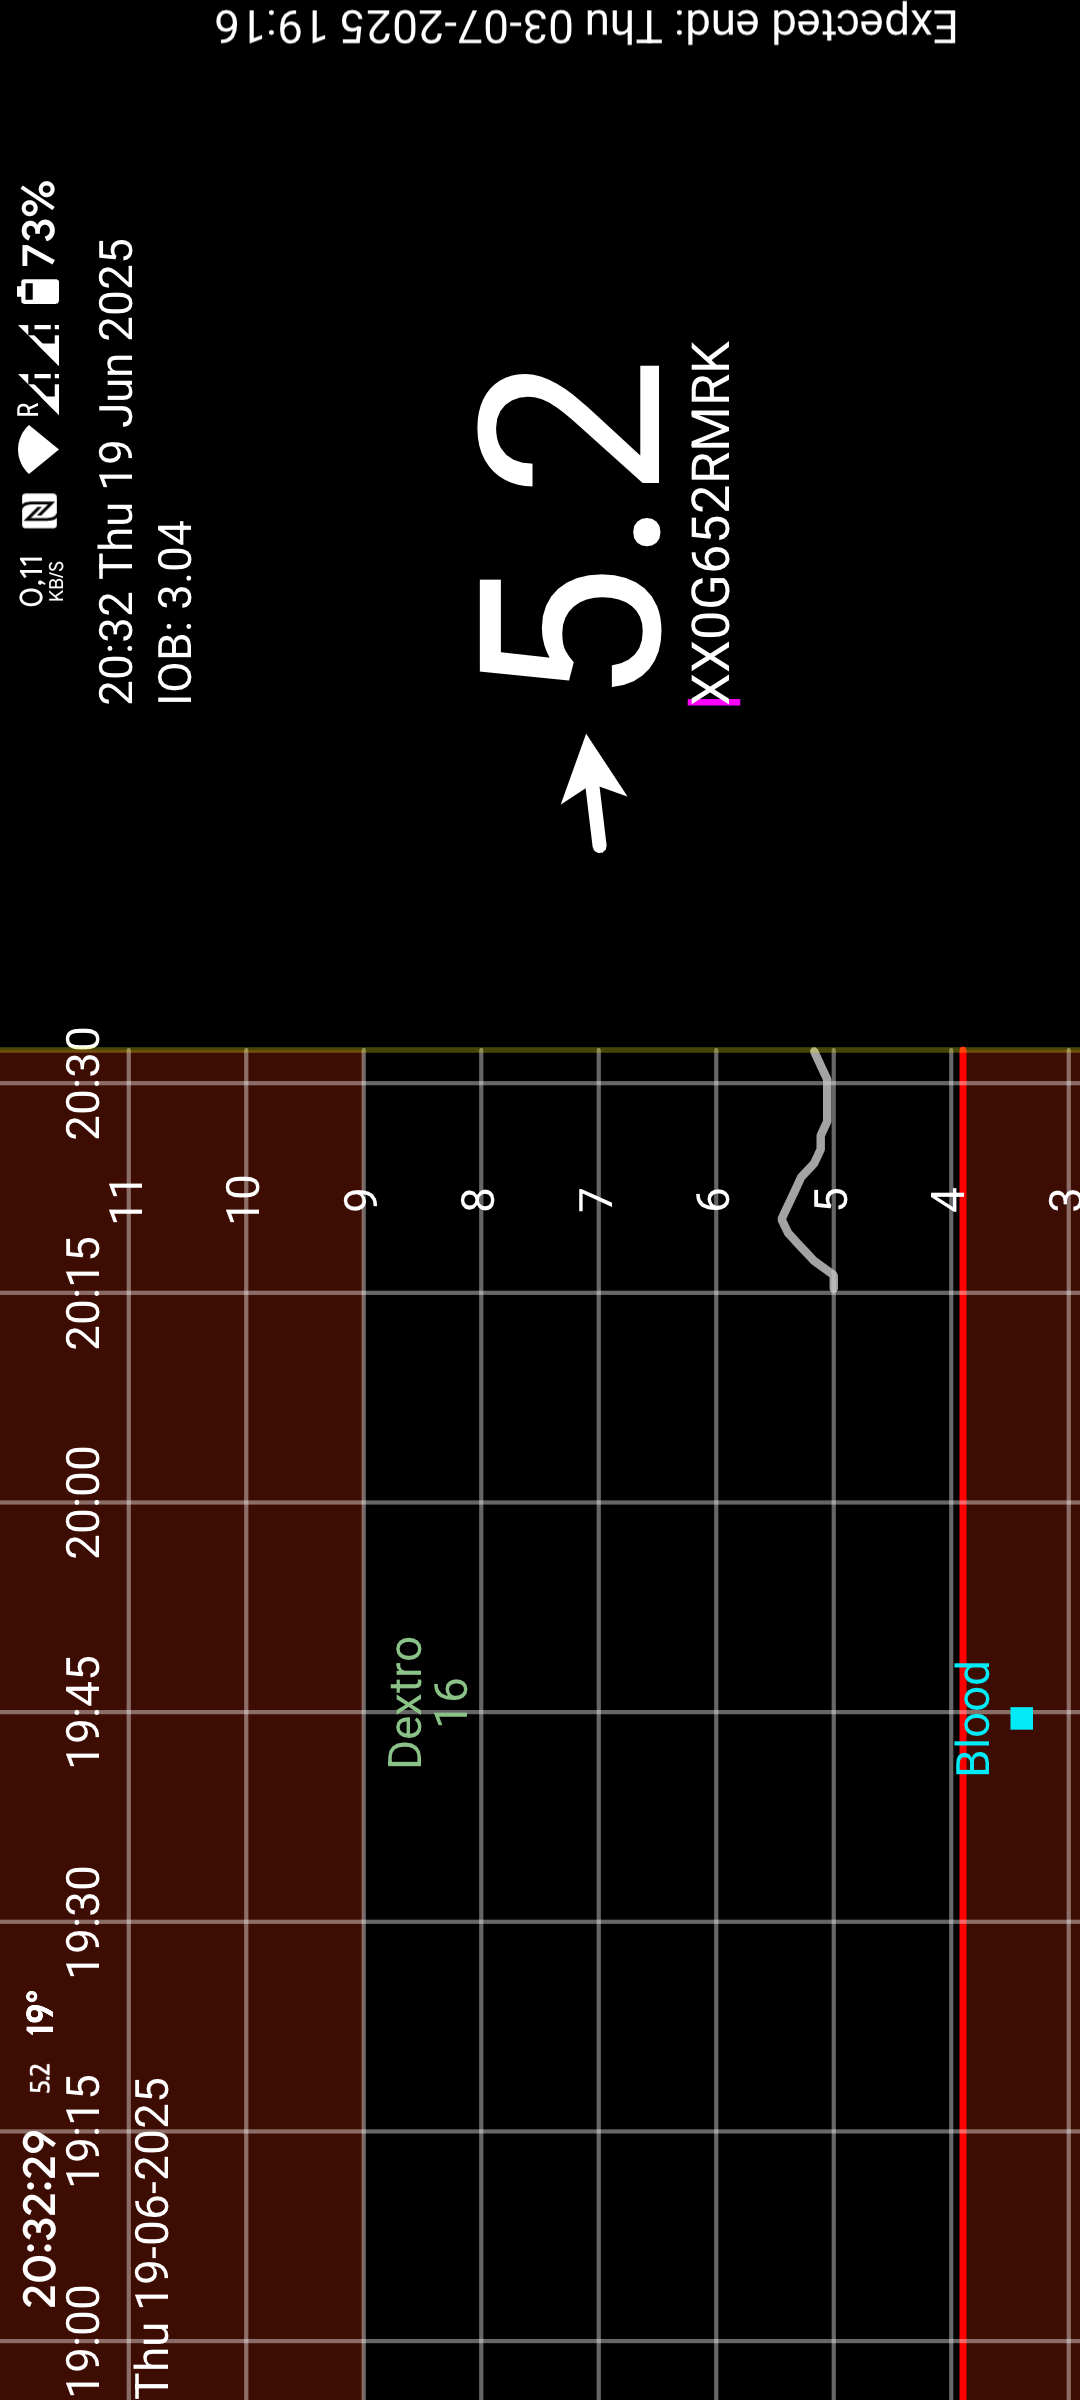
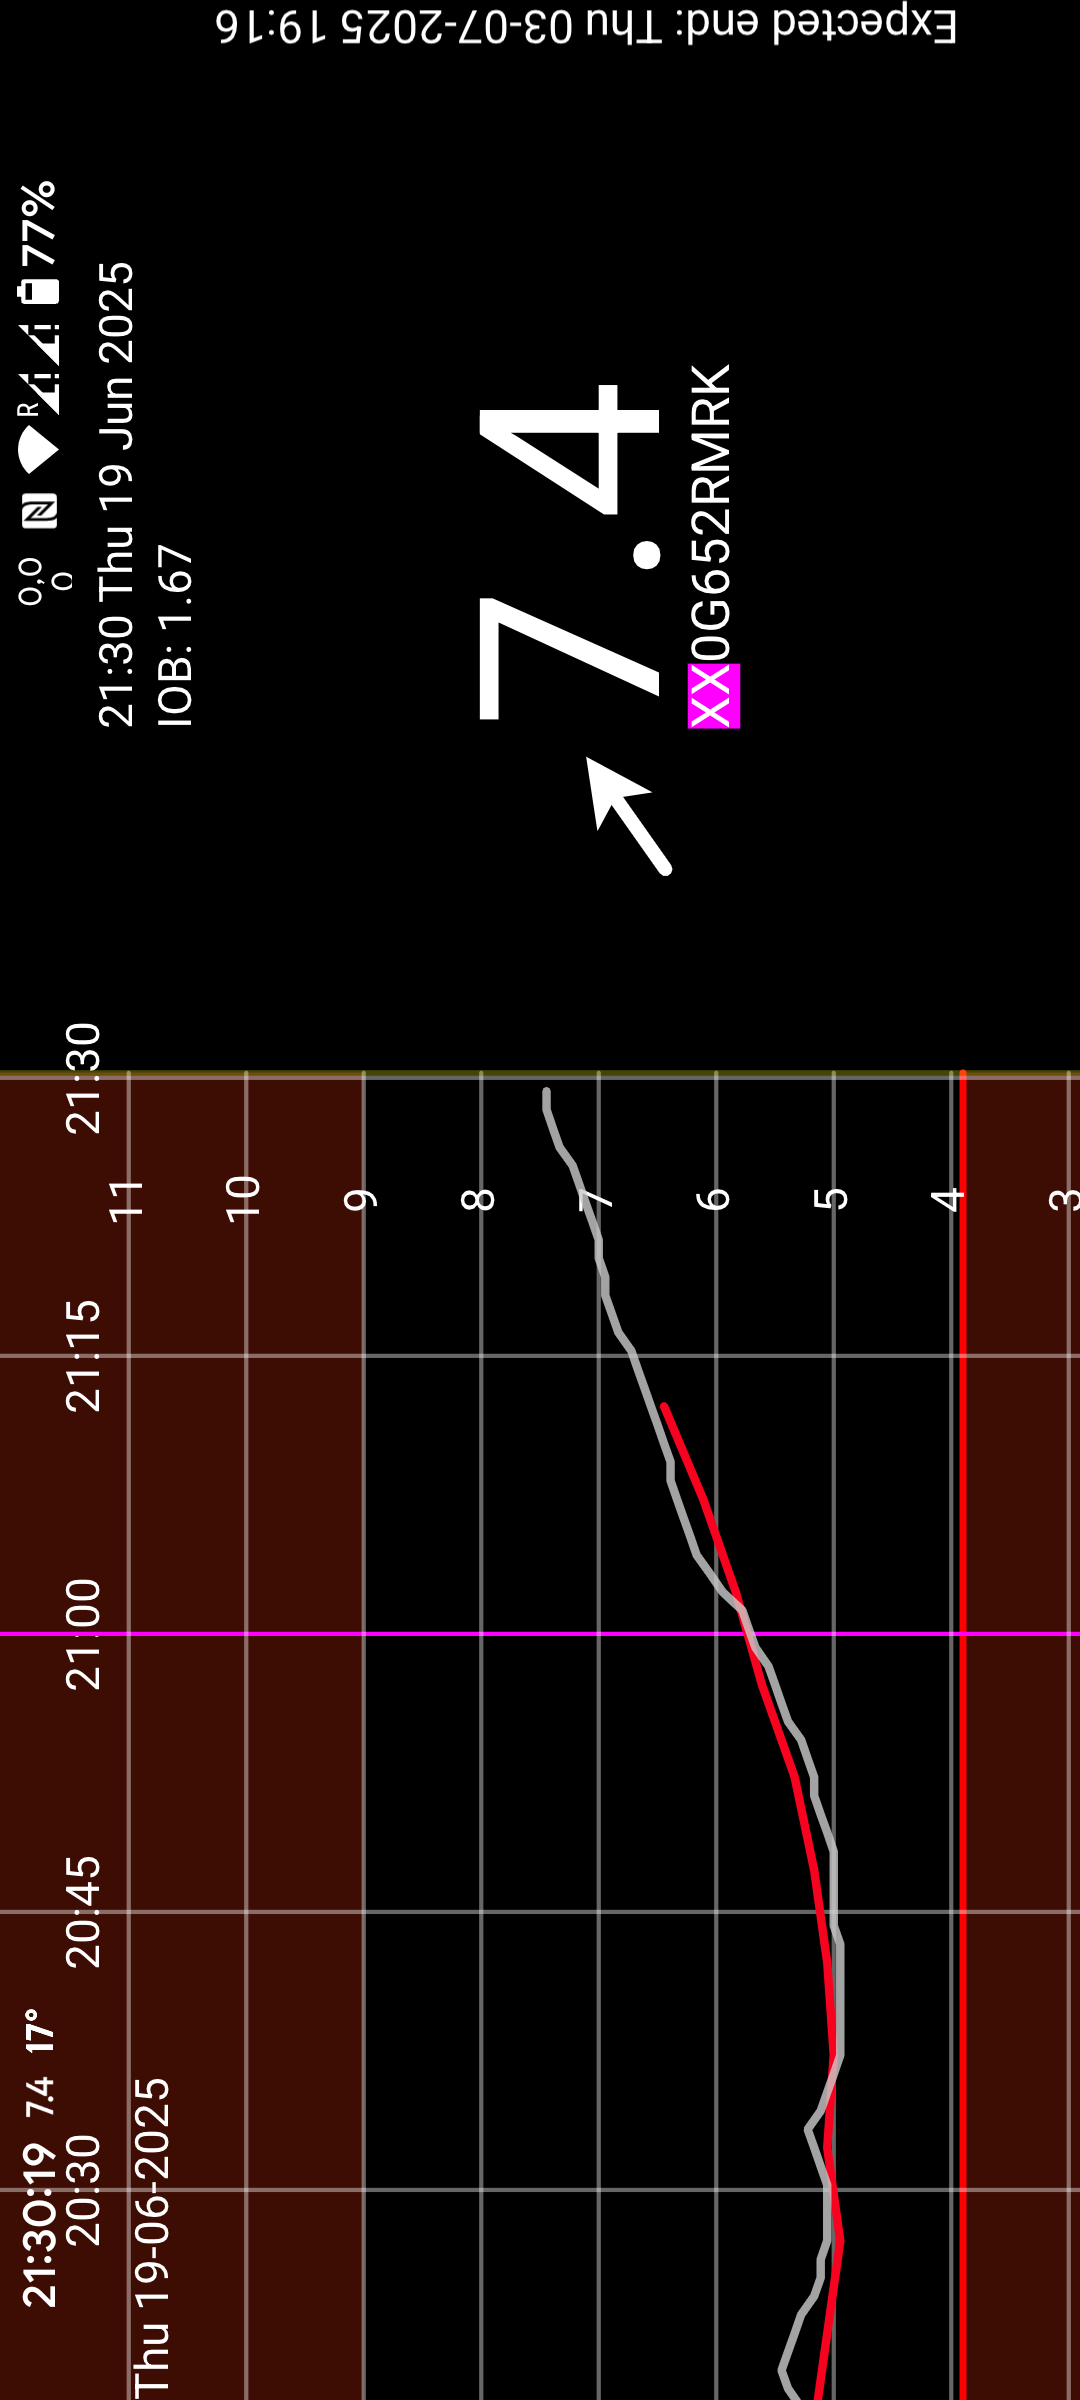
7.4

diff --git a/Juggluco/portrait/index.html b/Juggluco/portrait/index.html
@@ -20,17 +20,17 @@
 <!-- <img style="object-fit:contain; width:7cm;		    height:auto;" src="http://127.0.0.1:17580/hallo/x/curve?stream&scans&darkmode&width=800&starttime=-9300"> -->
 
 <div class="column">
-<img style="object-fit:contain; width:7cm;		    height:auto;" src="landscape.png" > 
+<img style="object-fit:contain; width:6.54cm;		    height:auto;" src="landscape.png" > 
 </div>
 <div class="column">
 <div class="row">
-<img style="object-fit:contain; width:7cm;		    height:auto;" src="curve.png"> 
+<img style="object-fit:contain; width:6.54cm;		    height:auto;" src="curve.png"> 
   </div>
 <div class="row">
-<img style="margin-top:9.8cm;object-fit:contain; width:7cm; height:auto;" id="stats" src="stats.png"> 
+<img style="margin-top:9.35cm;object-fit:contain; width:6.54cm; height:auto;" id="stats" src="stats.png"> 
 </div>
 </div>
-<!-- <img style="margin-top:6.1cm;object-fit:contain; width:7cm; height:auto;" id="stats" src="http://localhost:17580/hallo/x/stats?days=20&darkmode"> -->
+<!-- <img style="margin-top:cm;object-fit:contain; width:7cm; height:auto;" id="stats" src="http://localhost:17580/hallo/x/stats?days=20&darkmode"> -->
 </body>
 </html>
 </div>
